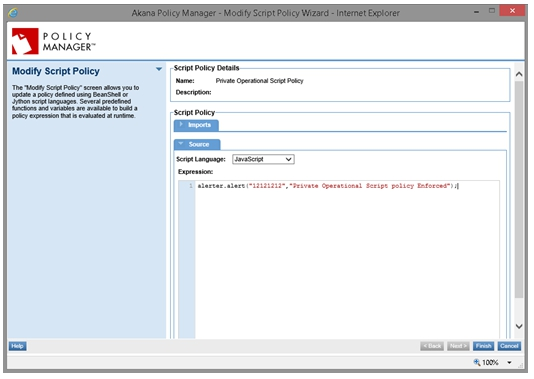
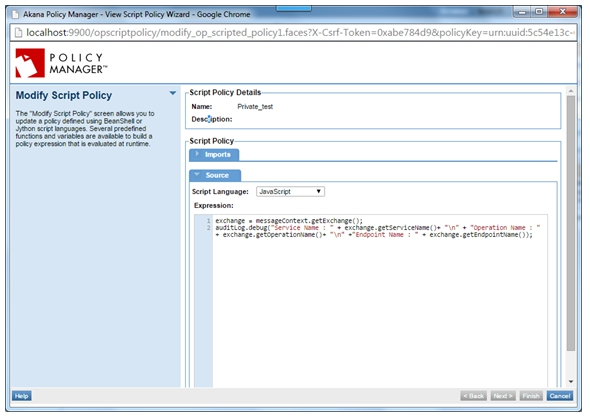
SM-16951 QA Review updates

Changed region(s): [[0.0, 0.0, 0.9888, 0.9868]]

diff --git a/ag/policies/using_public_private_op_script_policies_pm8x.htm b/ag/policies/using_public_private_op_script_policies_pm8x.htm
@@ -89,16 +89,20 @@ nav-title: Using the Public and Private Operational Script Policies (8.x)
 <h5>Step 3: Modify Policy</h5>
 <p>When you <strong>Modify</strong> the Public Operational Script Policy  on the <em>Policy Details</em> page the initial policy will look like this:</p>
 <p><img src="images/modify_private_op_script_policy_8x.jpg" width="552" height="392" /></p>
-<p>To illustrate how to use the policy, we are going to add  script code that will generate an Alert that we can check at the registry level. </p>
+<p>To illustrate how to use the policy, we are going to add  script code that gets the Service Details.</p>
 <p>In the <em>Source</em> section, select  <strong>JavaScript</strong> as the Script Language,  add the following code to the Expression section and save the policy:</p>
-<p><strong>alerter.alert(&quot;12121212&quot;,&quot;Private Operational Script policy Enforced&quot;);</strong></p>
-<p><img src="images/modify_private_op_script_policy_8x_example.jpg" width="534" height="379" /></p>
+<code>exchange = messageContext.getExchange();
+auditLog.debug("Service Name : " + exchange.getServiceName()+ "\n" + "Operation Name : " + exchange.getOperationName()+ "\n" +"Endpoint Name : " + exchange.getEndpointName());
+</code>
+
+<p>The script editor will look similar to the following:</p>
+<p><img src="images/modify_private_op_script_policy_8x_example.jpg" width="590" height="420" /></p>
 <h5>Step 4: Attach Policy</h5>
 <p>After you have saved your policy, activate it, and attach it to a web service   operation. </p>
 <p><img src="images/attach_private_op_script_policy_8x.jpg" width="646" height="177" /></p>
 <h5>Step 5: Test Policy</h5>
-<p>To test the policy, send a request and view the <em>Alerts</em> portlet in the <strong>Registry</strong> of the Organization Tree. An alert will be generated for each request sent.</p>
-<p><img src="images/op_script_alert_example.jpg" width="638" height="162" /></p>
+<p>To test the policy, send a request and select <em>Monitoring &gt; Logs &gt; View Usage Record Details &gt; Recorded Messages</em> to view the DEBUG  statement that prints the service details.</p>
+<p><img src="images/opt_private_script_debug_example.jpg" width="543" height="513" /></p>
 <p><a href="#top">back to top</a>
 </p>
 
